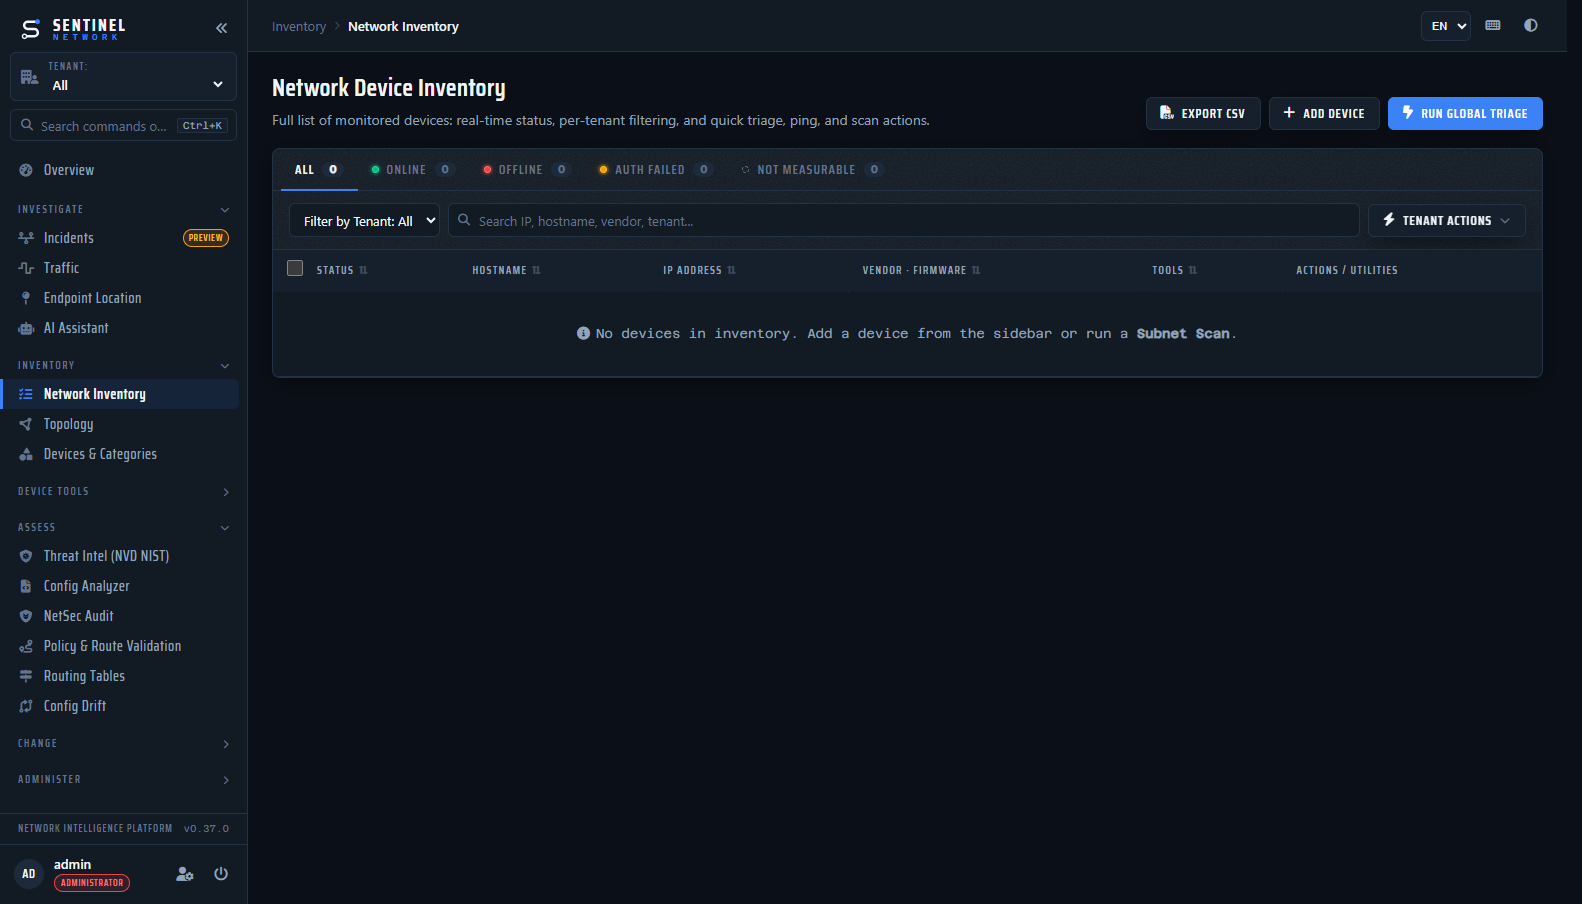
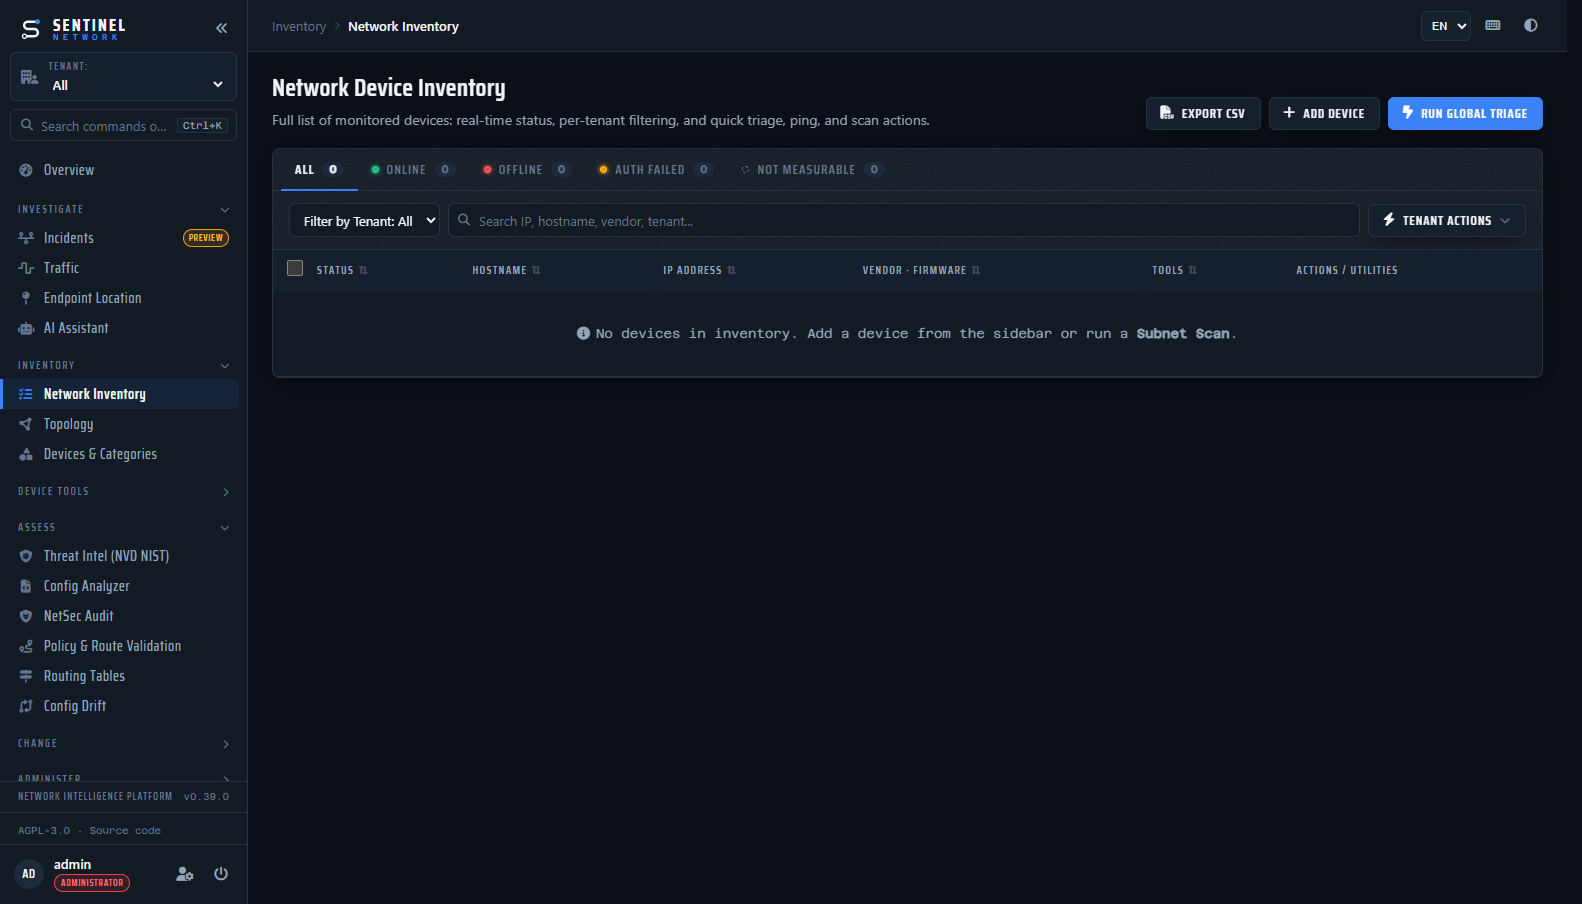
feat(ui): offer the corresponding source from the sidebar
AGPL-3.0 section 13 binds whoever modifies SentinelNet and lets people use
it over a network: those users must be offered the corresponding source of
the version they are talking to. The pristine release is not a modified
version, so this is not a debt of ours -- but a fork has no obvious place
to put that offer unless one already exists, and rebuilding the shell to
add it is exactly the friction that turns into non-compliance.

So the place exists now, under the version badge in the sidebar foot,
where a reader looks for what they are running.

The string goes through the dictionary in both languages like every other,
the anchor is rel="noopener noreferrer" because it leaves the origin, and
the collapsed rail hides it with the rest of the labels. Screenshots in
docs/images regenerated: the sidebar changed visibly and nothing else
catches that.

Changed region(s): [[0.1858, 0.0929, 0.5885, 0.1549], [0.0, 0.8673, 0.1549, 0.9292], [0.8982, 0.1239, 0.9602, 0.1549]]

diff --git a/templates/dashboard.html b/templates/dashboard.html
@@ -374,6 +374,14 @@
         <span class="aside-tagline">Network Intelligence Platform</span>
         <span id="appVersionBadge">v0.2.0</span>
       </div>
+      <!-- AGPL-3.0 13: chi modifica SentinelNet e lo lascia usare attraverso una
+           rete deve offrire ai suoi utenti il sorgente corrispondente. Questo
+           link e' quell'offerta: se il codice si sposta, va spostato con lui. -->
+      <div class="aside-license">
+        <a id="linkSourceCode" href="https://github.com/Claudio-Vidhi/SentinelNet"
+           target="_blank" rel="noopener noreferrer"
+           data-i18n="linkSourceCode">AGPL-3.0 &middot; Codice sorgente</a>
+      </div>
       <div class="user-badge">
         <span id="userBadgeLabel"><i class="fa-solid fa-user-shield"></i> Amministratore</span>
         <a href="#" id="btnOpenProfile" title="Il mio profilo" aria-label="Il mio profilo" data-i18n-title="btnOpenProfile" data-i18n-aria-label="btnOpenProfile"><i class="fa-solid fa-user-gear"></i></a>

diff --git a/static/css/dashboard.css b/static/css/dashboard.css
@@ -564,6 +564,10 @@ select option { background-color: var(--surface); color: var(--text); }
 }
 #appVersionBadge { font-family: var(--font-data); font-size: 10px; color: var(--text-soft); flex-shrink: 0; }
 
+.aside-license { padding: 6px 18px; border-bottom: var(--seam) solid var(--border); }
+.aside-license a { font-family: var(--font-data); font-size: 10px; color: var(--text-soft); text-decoration: none; }
+.aside-license a:hover, .aside-license a:focus-visible { color: var(--primary); text-decoration: underline; }
+
 .user-badge {
   display: flex;
   align-items: center;
@@ -1858,6 +1862,7 @@ body:not(.role-admin) .requires-admin { display: none !important; }
   body.sidebar-collapsed .aside-tagline,
   body.sidebar-collapsed .tenant-switch,
   body.sidebar-collapsed .aside-meta,
+  body.sidebar-collapsed .aside-license,
   body.sidebar-collapsed .sidebar-search kbd,
   body.sidebar-collapsed .nav-group > h3,
   body.sidebar-collapsed .preview-badge,

diff --git a/static/js/i18n.js b/static/js/i18n.js
@@ -33,6 +33,7 @@ const i18n = {
         // Sidebar
         badgeAdmin: '<i class="fa-solid fa-user-shield"></i> Amministratore',
         btnExit: '<i class="fa-solid fa-power-off"></i> Esci',
+        linkSourceCode: 'AGPL-3.0 &middot; Codice sorgente',
         titleProvisioning: '<i class="fa-solid fa-circle-plus"></i> Provisioning Apparato',
         lblGroup: "Assegna a Tenant",
         lblDeviceSite: "Sede fisica",
@@ -3083,6 +3084,7 @@ const i18n = {
         // Sidebar
         badgeAdmin: '<i class="fa-solid fa-user-shield"></i> Administrator',
         btnExit: '<i class="fa-solid fa-power-off"></i> Logout',
+        linkSourceCode: 'AGPL-3.0 &middot; Source code',
         titleProvisioning: '<i class="fa-solid fa-circle-plus"></i> Device Provisioning',
         lblGroup: "Assign to Tenant",
         lblDeviceSite: "Physical site",

diff --git a/tests/test_license_headers.py b/tests/test_license_headers.py
@@ -101,5 +101,31 @@ class NoticeIsShipped(unittest.TestCase):
         self.assertIn("!THIRD_PARTY_LICENSES.md", dockerignore)
 
 
+class TheUiOffersTheSource(unittest.TestCase):
+    """AGPL 13: l'offerta del sorgente deve raggiungere chi usa via rete.
+
+    Vincola chi modifica SentinelNet, non la release originale, ma il link e'
+    cio' che gli rende possibile rispettarla senza rifare la UI. Se sparisce,
+    un fork che lo espone in rete e' fuori licenza senza accorgersene.
+    """
+
+    def setUp(self):
+        self.html = (ROOT / "templates" / "dashboard.html").read_text(encoding="utf-8")
+
+    def test_the_sidebar_links_to_the_source(self):
+        self.assertIn('id="linkSourceCode"', self.html)
+        self.assertIn("https://github.com/Claudio-Vidhi/SentinelNet", self.html)
+
+    def test_the_link_is_translated_in_both_languages(self):
+        # Niente stringa inline: la regola i18n vale anche per un link legale.
+        self.assertIn('data-i18n="linkSourceCode"', self.html)
+        i18n = (ROOT / "static" / "js" / "i18n.js").read_text(encoding="utf-8")
+        self.assertEqual(i18n.count("linkSourceCode:"), 2, "serve in it e in en")
+
+    def test_the_external_link_is_opener_safe(self):
+        anchor = self.html[self.html.index('id="linkSourceCode"'):][:400]
+        self.assertIn('rel="noopener noreferrer"', anchor)
+
+
 if __name__ == "__main__":
     unittest.main()

diff --git a/CHANGELOG.md b/CHANGELOG.md
@@ -37,6 +37,10 @@ happened — `git log --grep="chore(release)"` is the record for those.
 - **Header di copyright e SPDX in testa a ogni sorgente tracciato** (423 file).
   Senza una nota nel file, chi lo redistribuisce non ha niente da conservare.
   `tests/test_license_headers.py` fallisce se un file nuovo arriva senza.
+- **Link al sorgente nella console**, sotto il numero di versione nella
+  sidebar. E' l'offerta richiesta dalla sezione 13: vincola chi modifica
+  SentinelNet e lo espone in rete, e il link e' cio' che gli permette di
+  rispettarla senza rifare la UI.
 - **`LICENSES/Apache-2.0.txt`**: diversi componenti inclusi sono Apache-2.0 e la
   loro 4(a) vuole che una copia della licenza viaggi con il binario, che la
   LICENSE di root non e' piu'.
